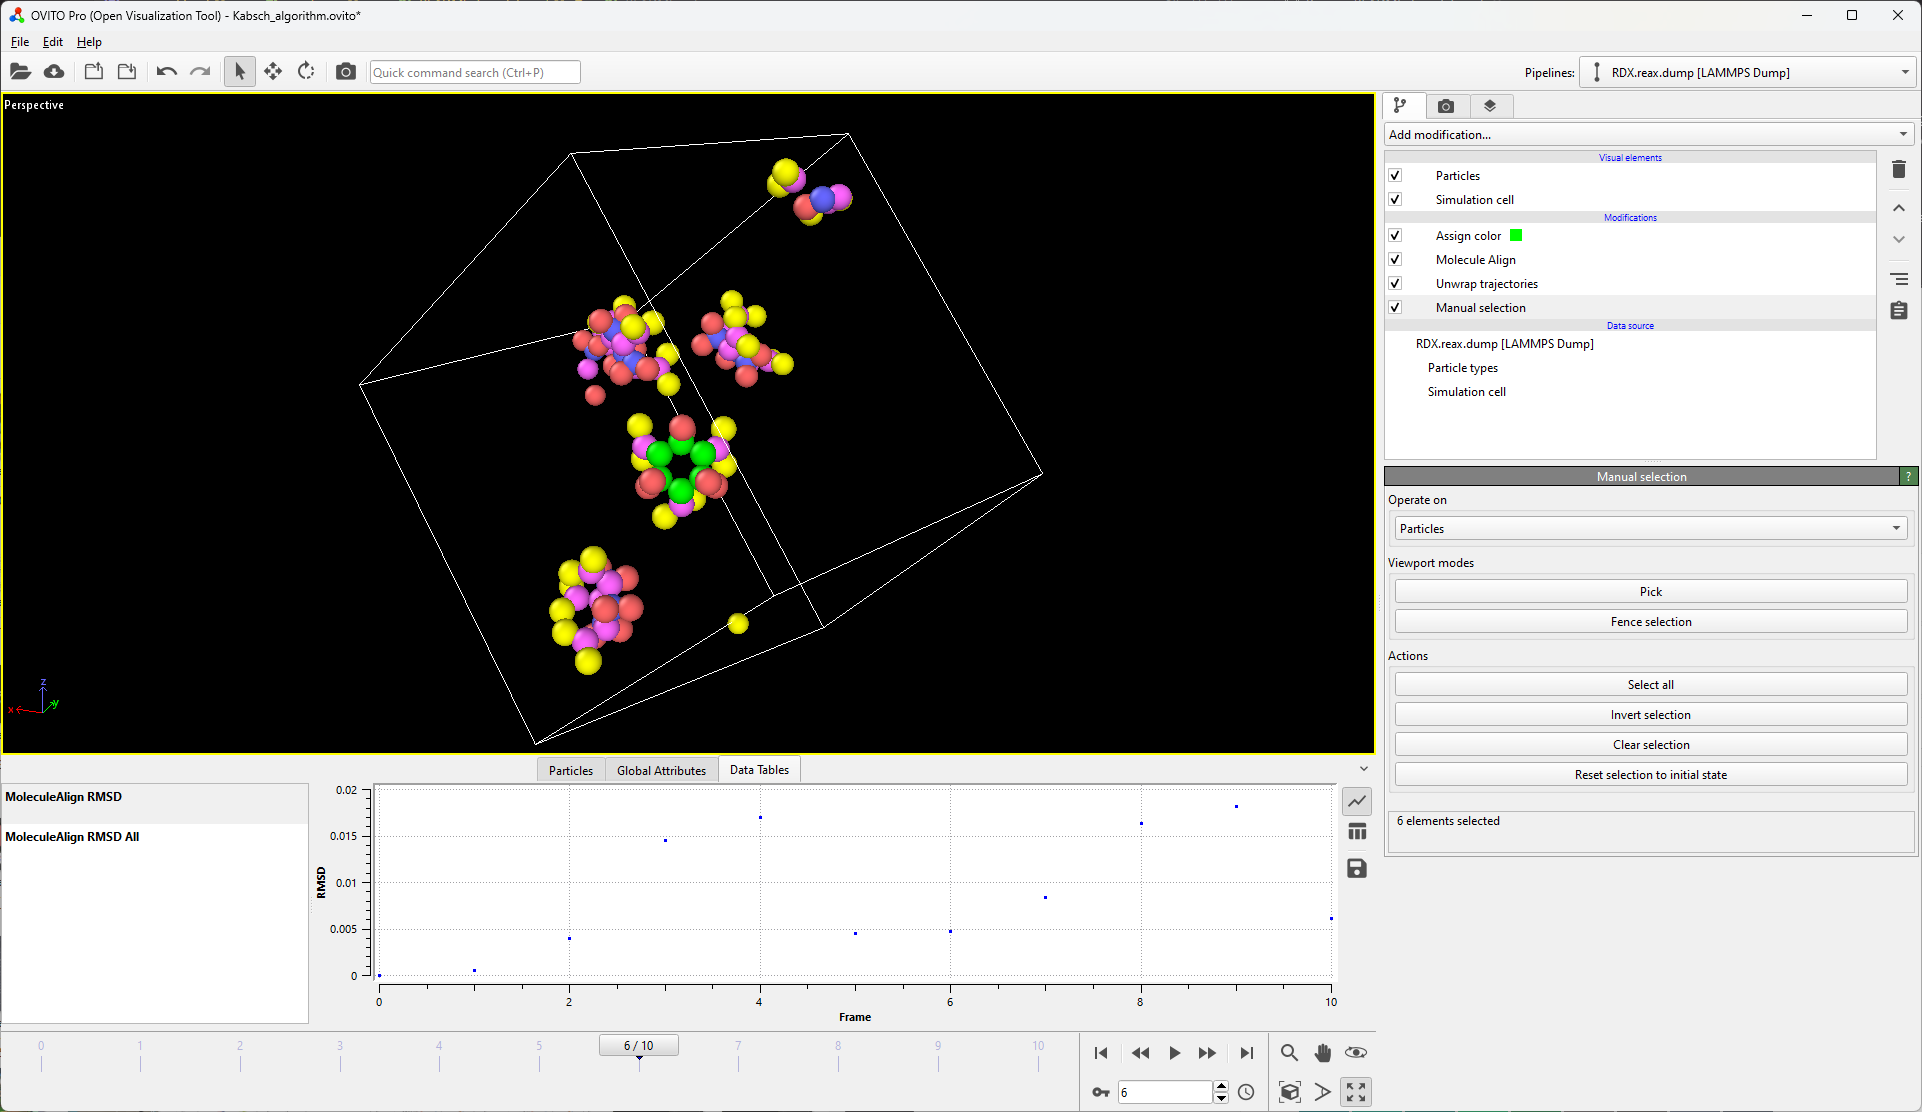
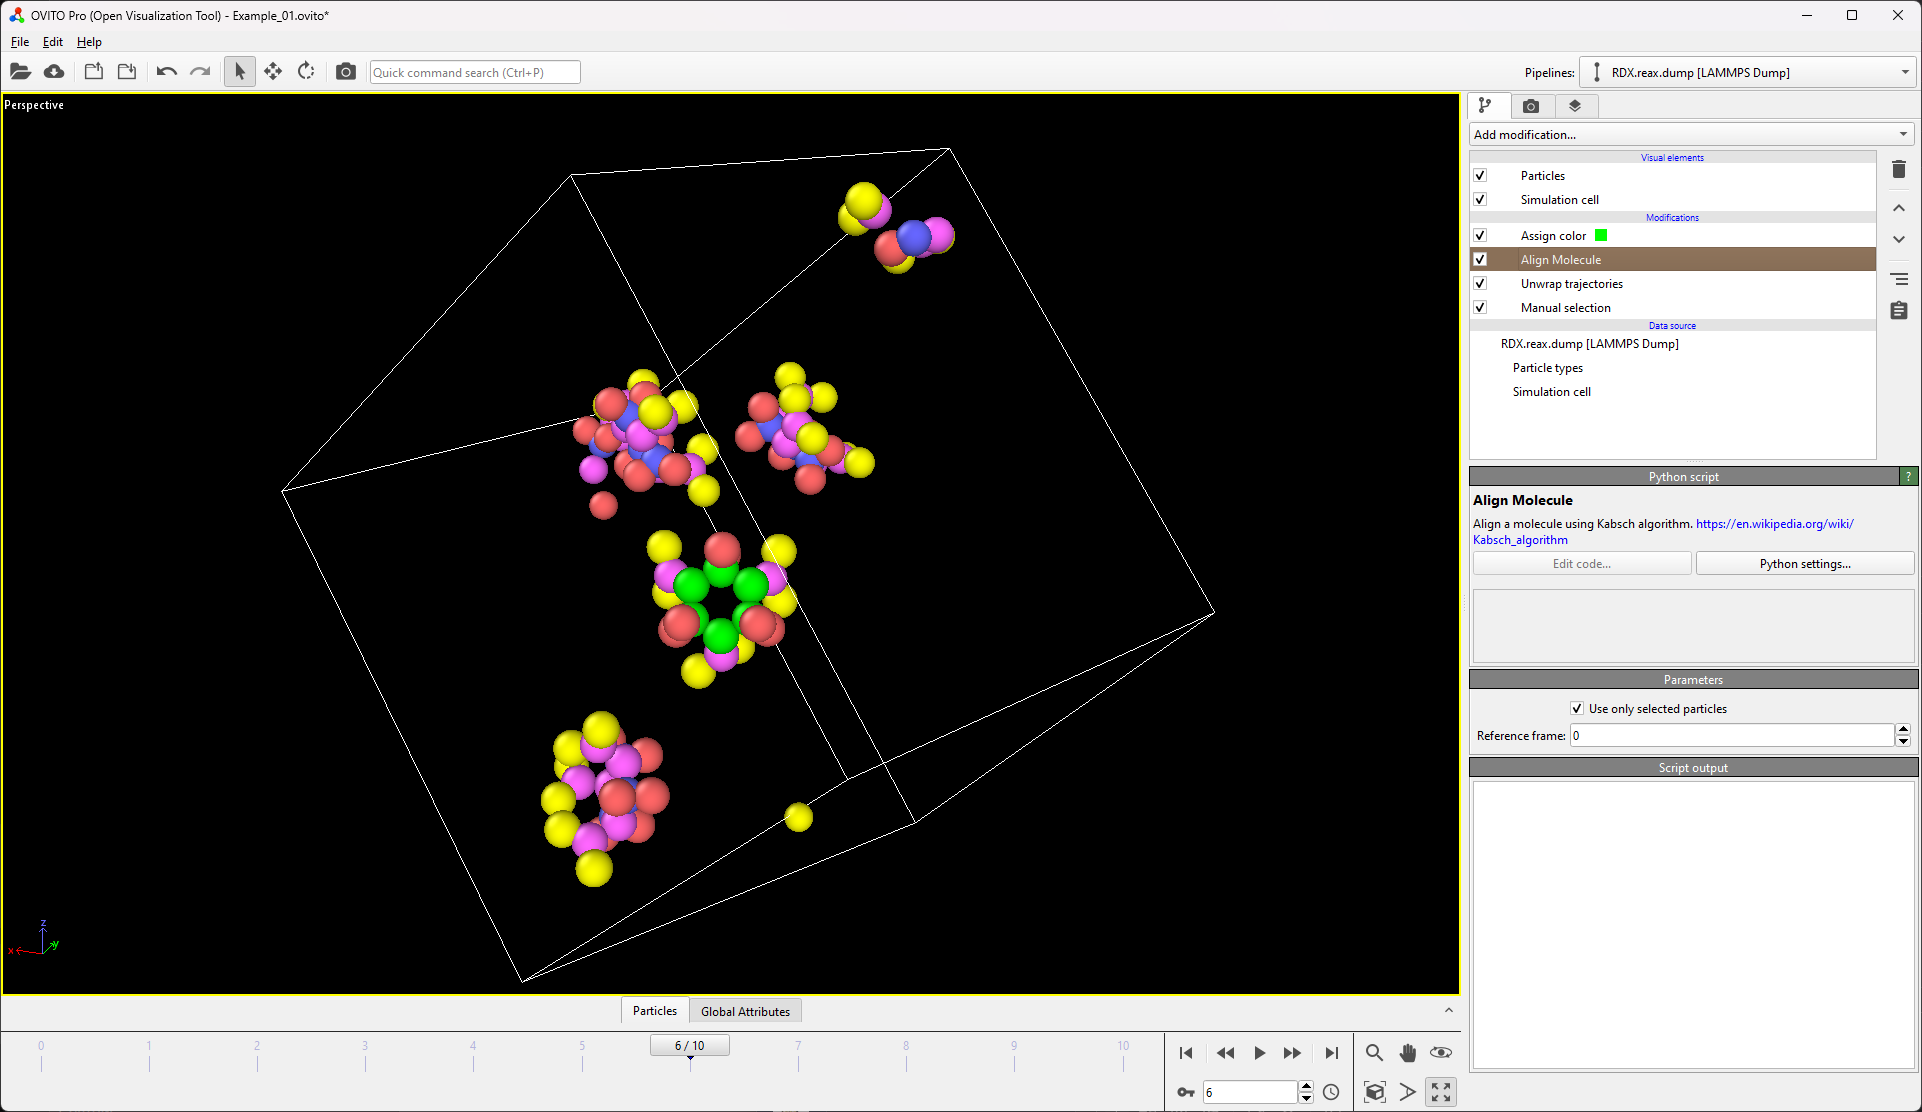
Refactor

diff --git a/src/AlignMolecule/__init__.py b/src/AlignMolecule/__init__.py
@@ -1,0 +1,118 @@
+#### Align Molecule ####
+# Align a molecule using Kabsch algorithm.
+# https://en.wikipedia.org/wiki/Kabsch_algorithm
+
+from ovito.data import DataCollection
+from ovito.modifiers import AffineTransformationModifier
+import numpy as np
+from ovito.pipeline import ModifierInterface
+from traits.api import Bool, Int
+
+
+class AlignMolecule(ModifierInterface):
+    only_selected = Bool(True, label="Use only selected particles")
+    reference_frame = Int(0, label="Reference frame")
+
+    def get_suffix(self, data):
+        max_count = -1
+        for key in data.attributes:
+            if key.startswith("AlignMolecule"):
+                key = key.split(".")
+                if len(key) == 1:
+                    max_count = 0
+                else:
+                    count = int(key[-1])
+                    if count > max_count:
+                        max_count = count
+        if max_count != -1:
+            return f".{max_count+1}"
+        return ""
+
+    def get_selection(self, col: DataCollection):
+        if "Particle Identifier" in col.particles:
+            if self.only_selected:
+                selection = np.where(col.particles["Selection"] != 0)[0]
+                return selection[
+                    np.argsort(col.particles["Particle Identifier"][selection])
+                ]
+            else:
+                return np.argsort(col.particles["Particle Identifier"])
+        else:
+            if self.only_selected:
+                return np.where(col.particles["Selection"] != 0)[0]
+            else:
+                return ...
+
+    def input_caching_hints(self, frame, **kwargs):
+        return [self.reference_frame, frame]
+
+    def modify(
+        self,
+        data: DataCollection,
+        input_slots: dict[str, ModifierInterface.InputSlot],
+        **kwargs,
+    ):
+        # Get selections
+        if self.only_selected and "Selection" not in data.particles:
+            raise ValueError("No selection available. Please define a selection.")
+
+        selection = self.get_selection(data)
+        data_ref = input_slots["upstream"].compute(self.reference_frame)
+        selection_ref = self.get_selection(data_ref)
+
+        # get reference points
+        pos_ref = data_ref.particles["Position"][selection_ref]
+
+        # get current points
+        pos = data.particles["Position"][selection]
+
+        # calculate translation
+        pos_ref_bar = np.mean(pos_ref, axis=0)
+        pos_bar = np.mean(pos, axis=0)
+
+        # Compute covariance matrix
+        H = np.dot((pos - pos_bar).T, (pos_ref - pos_ref_bar))
+        U, S, Vt = np.linalg.svd(H)
+
+        # Compute rotation matrix
+        d = np.sign(np.linalg.det(Vt) * np.linalg.det(U))
+        R = np.dot(
+            np.dot(
+                Vt.T,
+                np.array([[1, 0, 0], [0, 1, 0], [0, 0, d]]),
+            ),
+            U.T,
+        )
+
+        # Apply rotation to current points
+        transform = np.zeros((3, 4))
+        transform[:3, :3] = R
+        data.apply(AffineTransformationModifier(transformation=transform))
+
+        # Translate points to reference position
+        pos = data.particles["Position"][selection]
+        translate = pos_ref_bar - np.mean(pos, axis=0)
+
+        transform = np.zeros((3, 4))
+        np.fill_diagonal(transform, 1)
+        transform[:, 3] = translate
+        data.apply(AffineTransformationModifier(transformation=transform))
+
+        # RMSD selection
+        pos = data.particles["Position"][selection]
+        pos_ref = data_ref.particles["Position"][selection_ref]
+
+        prop_name = f"AlignMolecule{self.get_suffix(data)}"
+
+        rmsd = np.mean(np.square(pos_ref - pos))
+        data.attributes[f"{prop_name}.RMSD"] = rmsd
+
+        # RMSD all
+        mapping = data_ref.particles.remap_indices(data.particles)
+        pos = data.particles["Position"]
+        pos_ref = data_ref.particles["Position"][mapping]
+
+        rmsd_all = np.mean(np.square(pos_ref - pos), axis=1)
+        data.particles_.create_property("RMSD", data=rmsd_all)
+        rmsd_all = np.mean(rmsd_all)
+        data.attributes[f"{prop_name}.RMSD_all"] = rmsd_all

diff --git a/README.md b/README.md
@@ -1,5 +1,5 @@
-# Molecule Align
-Align molecules using the [Kabsch algorithm](https://en.wikipedia.org/wiki/Kabsch_algorithm).
+# Align Molecule
+Align a molecule using [Kabsch algorithm](https://en.wikipedia.org/wiki/Kabsch_algorithm).
 
 ## Description
 
@@ -9,7 +9,7 @@ Users can select either all atoms or a subset as the reference for alignment. Op
 
 ### Requirements
 
-This modifier requires unique identifiers for each atom. If these are not available, they will be generated during runtime. In that case the modifier assumes a consistent atom order throughout the trajectory.
+This modifier requires unique identifiers for each atom. If these are not available the modifier assumes a consistent atom ordering throughout the trajectory.
 
 It's crucial to provide an unwrapped trajectory to ensure accurate behavior. If your trajectory is wrapped, use the [unwrap trajectories modifier](https://www.ovito.org/docs/current/reference/pipelines/modifiers/unwrap_trajectories.html) before applying this modifier. The behavior with wrapped trajectories is unpredictable.
 
@@ -19,7 +19,7 @@ When operating on a subset of atoms, ensure the selection remains consistent thr
 
 The modifier calculates the root mean square deviation (RMSD) of atomic coordinates post-alignment relative to the reference frame. The RMSD for selected atoms is recorded in the `MoleculeAlign.RMSD` [global attribute](https://www.ovito.org/docs/current/reference/data_inspector/attributes.html). The RMSD for all atoms is available in the `MoleculeAlign.RMSD_all` attribute.
 
-Additionally, it provides an RMSD value for each atom and generates a data table showing RMSD values across frames, which populates as the trajectory is analyzed in OVITO Pro.
+Additionally, it provides an RMSD value for each atom.
 
 ## Parameters 
 
@@ -37,13 +37,13 @@ Here's an example illustrating how the modifier aligns the highlighted (green) a
 ## Installation
 - OVITO Pro [integrated Python interpreter](https://docs.ovito.org/python/introduction/installation.html#ovito-pro-integrated-interpreter):
   ```
-  ovitos -m pip install --user git+https://github.com/ovito-org/MoleculeAlign.git
+  ovitos -m pip install --user git+https://github.com/ovito-org/AlignMolecule.git
   ``` 
   The `--user` option is recommended and [installs the package in the user's site directory](https://pip.pypa.io/en/stable/user_guide/#user-installs).
 
 - Other Python interpreters or Conda environments:
   ```
-  pip install git+https://github.com/ovito-org/MoleculeAlign.git
+  pip install git+https://github.com/ovito-org/AlignMolecule.git
   ```
 
 ## Technical information / dependencies
